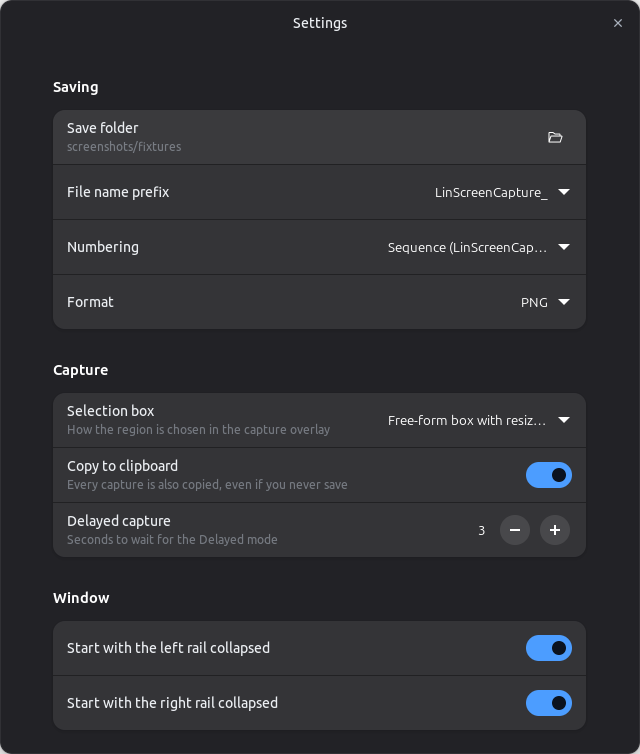
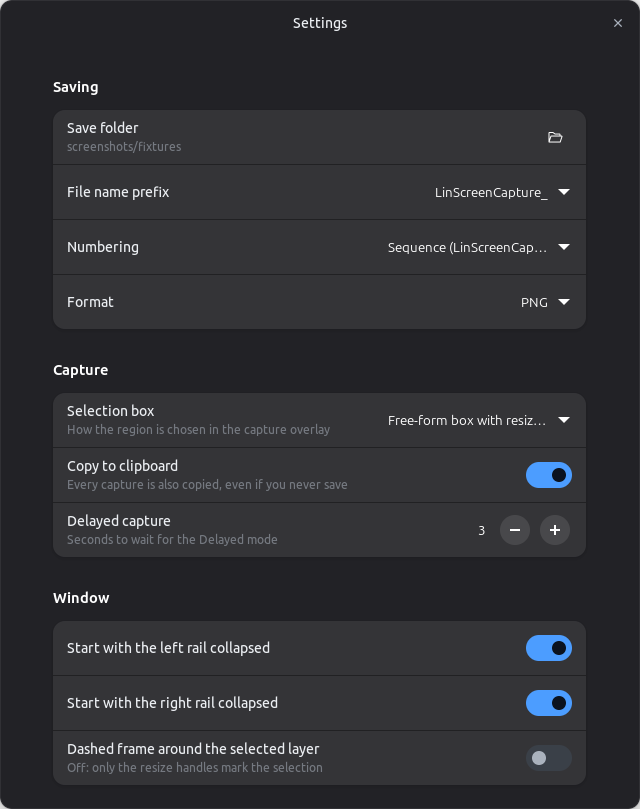
Selection shows handles only; dashed frame is an optional setting (corner ticks for handle-less layers)

diff --git a/linscreencapture/model/settings.py b/linscreencapture/model/settings.py
@@ -84,6 +84,7 @@ class Settings:
     window_maximized: bool = False
     left_collapsed: bool = True   # the collapsed rails are the default on first run
     right_collapsed: bool = True
+    selection_frame: bool = False  # dashed frame around the selected layer (handles alone by default)
     # [Capture]
     screenshot_path: str = field(default_factory=_default_pictures)
     prefix: str = "LinScreenCapture_"
@@ -179,6 +180,7 @@ class Settings:
         self.window_maximized = g.bool("Window", "maximized", self.window_maximized)
         self.left_collapsed = g.bool("Window", "left_collapsed", self.left_collapsed)
         self.right_collapsed = g.bool("Window", "right_collapsed", self.right_collapsed)
+        self.selection_frame = g.bool("Window", "selection_frame", self.selection_frame)
         self.screenshot_path = g.str("Capture", "screenshot_path", self.screenshot_path)
         self.prefix = g.str("Capture", "prefix", self.prefix)
         self.numbering = g.choice("Capture", "numbering", NUMBERING, self.numbering)
@@ -249,6 +251,7 @@ class Settings:
         kf.set_boolean("Window", "maximized", bool(self.window_maximized))
         kf.set_boolean("Window", "left_collapsed", bool(self.left_collapsed))
         kf.set_boolean("Window", "right_collapsed", bool(self.right_collapsed))
+        kf.set_boolean("Window", "selection_frame", bool(self.selection_frame))
         kf.set_string("Capture", "screenshot_path", self.screenshot_path)
         kf.set_string("Capture", "prefix", self.prefix)
         kf.set_string("Capture", "numbering", self.numbering)

diff --git a/linscreencapture/app/editor_controller.py b/linscreencapture/app/editor_controller.py
@@ -658,14 +658,22 @@ class EditorController:
             return
         a = layer.annotation
         x, y, w, h = tools.selection_rect(a)
+        handles = tools.handles_for(a)
         cr.save()
         cr.set_source_rgba(*ACCENT, 0.9)
         cr.set_line_width(1)
-        cr.set_dash([5, 3])
-        cr.rectangle(ox + x * z + 0.5, oy + y * z + 0.5, w * z, h * z)
-        cr.stroke()
-        cr.set_dash([])
-        for hx, hy in tools.handles_for(a).values():
+        if self.settings.selection_frame:                  # optional dashed frame (off by default)
+            cr.set_dash([5, 3])
+            cr.rectangle(ox + x * z + 0.5, oy + y * z + 0.5, w * z, h * z)
+            cr.stroke()
+            cr.set_dash([])
+        elif not handles:                                  # no handles to show: four quiet corner ticks
+            t = 7
+            x0, y0, x1, y1 = ox + x * z + 0.5, oy + y * z + 0.5, ox + (x + w) * z - 0.5, oy + (y + h) * z - 0.5
+            for cx, cy, sx, sy in ((x0, y0, 1, 1), (x1, y0, -1, 1), (x0, y1, 1, -1), (x1, y1, -1, -1)):
+                cr.move_to(cx, cy + sy * t); cr.line_to(cx, cy); cr.line_to(cx + sx * t, cy)
+            cr.stroke()
+        for hx, hy in handles.values():
             sx, sy = ox + hx * z, oy + hy * z
             cr.rectangle(sx - HANDLE_PX / 2, sy - HANDLE_PX / 2, HANDLE_PX, HANDLE_PX)
             cr.set_source_rgb(1, 1, 1)

diff --git a/tests/test_shell.py b/tests/test_shell.py
@@ -816,3 +816,11 @@ def test_area_tools_mark_copy_clear_and_crop(window, tmp_path):
     assert (doc.width, doc.height) == (300, 200)
     rows = [row for row in _walk(window.panel_rail.layers) if isinstance(row, Gtk.ListBoxRow)]
     assert rows[-1].kind.get_label() == "IMG"
+
+
+def test_selection_frame_is_optional(window, settings):
+    assert settings.selection_frame is False                        # handles only, by default
+    settings.selection_frame = True; settings.save()
+    from linscreencapture.model.settings import Settings
+    assert Settings.load(root=settings.root).selection_frame is True
+    window.settings_changed("selection_frame", False)               # the dialog's live hook redraws the stage

diff --git a/linscreencapture/ui/preferences.py b/linscreencapture/ui/preferences.py
@@ -50,6 +50,7 @@ class PreferencesDialog(Adw.PreferencesDialog):
         window = Adw.PreferencesGroup(title="Window")
         window.add(self._switch("Start with the left rail collapsed", None, "left_collapsed"))
         window.add(self._switch("Start with the right rail collapsed", None, "right_collapsed"))
+        window.add(self._switch("Dashed frame around the selected layer", "Off: only the resize handles mark the selection", "selection_frame"))
         page.add(window)
         return page
 

diff --git a/linscreencapture/ui/studio_window.py b/linscreencapture/ui/studio_window.py
@@ -204,6 +204,8 @@ class StudioWindow(Gtk.ApplicationWindow):
         if field == "screenshot_path":
             self.captures.folder = value
             self.captures.scan()
+        elif field == "selection_frame":
+            self.stage.canvas.queue_draw()
         elif field in ("left_collapsed", "right_collapsed"):
             self.state.set_property(field, bool(value))
             self.state.set_property(field.replace("collapsed", "manual"), True)

diff --git a/docs/FEATURES.md b/docs/FEATURES.md
@@ -130,7 +130,7 @@ font settings apply at creation.
 | Crop **K** | drag, then **Enter** or Apply crop (**Esc** / Cancel abandons) | the base is cropped and every layer moves with it; a dark veil shows the pending crop |
 | Hand **H** | drag | pans the view (no layer) |
 | Box area **R**, Round area **O**, Point chain **J** | see §8 | mark a region for copy, crop or clear |
-| Select **V** / Move | click selects the topmost layer under the pointer; drag moves it; handles resize (8 for boxes, circles, fills, redactions and pasted images; 2 for arrows, lines and callouts; **Ctrl** keeps shapes square); **Delete** removes; **Ctrl+D** duplicates 12 px offset | undoable edits; cursor changes per handle |
+| Select **V** / Move | click selects the topmost layer under the pointer; drag moves it; handles resize (8 for boxes, circles, fills, redactions and pasted images; 2 for arrows, lines and callouts; **Ctrl** keeps shapes square); **Delete** removes; **Ctrl+D** duplicates 12 px offset | undoable edits; cursor changes per handle. The selection shows **handles only** (text, pen, marker and step layers, which have no handles, get four small corner ticks); Settings → Window → "Dashed frame around the selected layer" restores a dashed frame |
 
 Shadows (Arrow, Line, Box, Circle, Text, Pen, Marker) are a Gaussian-blurred black silhouette of the shape,
 cached per annotation, whose offset and blur grow with the line width (the 1.4 three-pass shadow banded).
@@ -144,7 +144,7 @@ subtitle's layer count and `unsaved` follow every change.
 
 | Action | Keys | Behaviour |
 | --- | --- | --- |
-| Select one | click (Select / Move) or a Layers row | dashed accent outline with white handles; the strip shows its properties |
+| Select one | click (Select / Move) or a Layers row | white handles with an accent border (corner ticks for layers without handles; the dashed frame is optional); the strip shows its properties |
 | Select all | **Ctrl+A** | every layer is marked: dashed outline around the image and each layer, Select tool active. Ctrl+C then copies the flattened image, Delete removes all layers in one undo step; a plain selection, Esc, a tool switch or a click on the empty stage ends it. Moving all layers together is not implemented |
 | Clear selection | **Esc** | |
 
@@ -252,6 +252,7 @@ and numbering derived from `filename_format`, tool widths and shadows, blur bloc
 | Copy to clipboard | `copy_to_clipboard` | bool |
 | Delayed capture | `delay_seconds` | 0–60 (used while the Delayed toggle is on) |
 | Start with the left / right rail collapsed | `left_collapsed`, `right_collapsed` | bool (applied live) |
+| Dashed frame around the selected layer | `selection_frame` | bool, default off (handles only) |
 
 Keys without a dialog row yet (Phase 6 pages): `backend` (auto · portal · x11 · cli), `include_pointer`,
 `pin_opacity`, `reopen_last`; `[System]` `autostart`, `hotkey`, `register_hotkey`. `[Tools]` keys are written by
